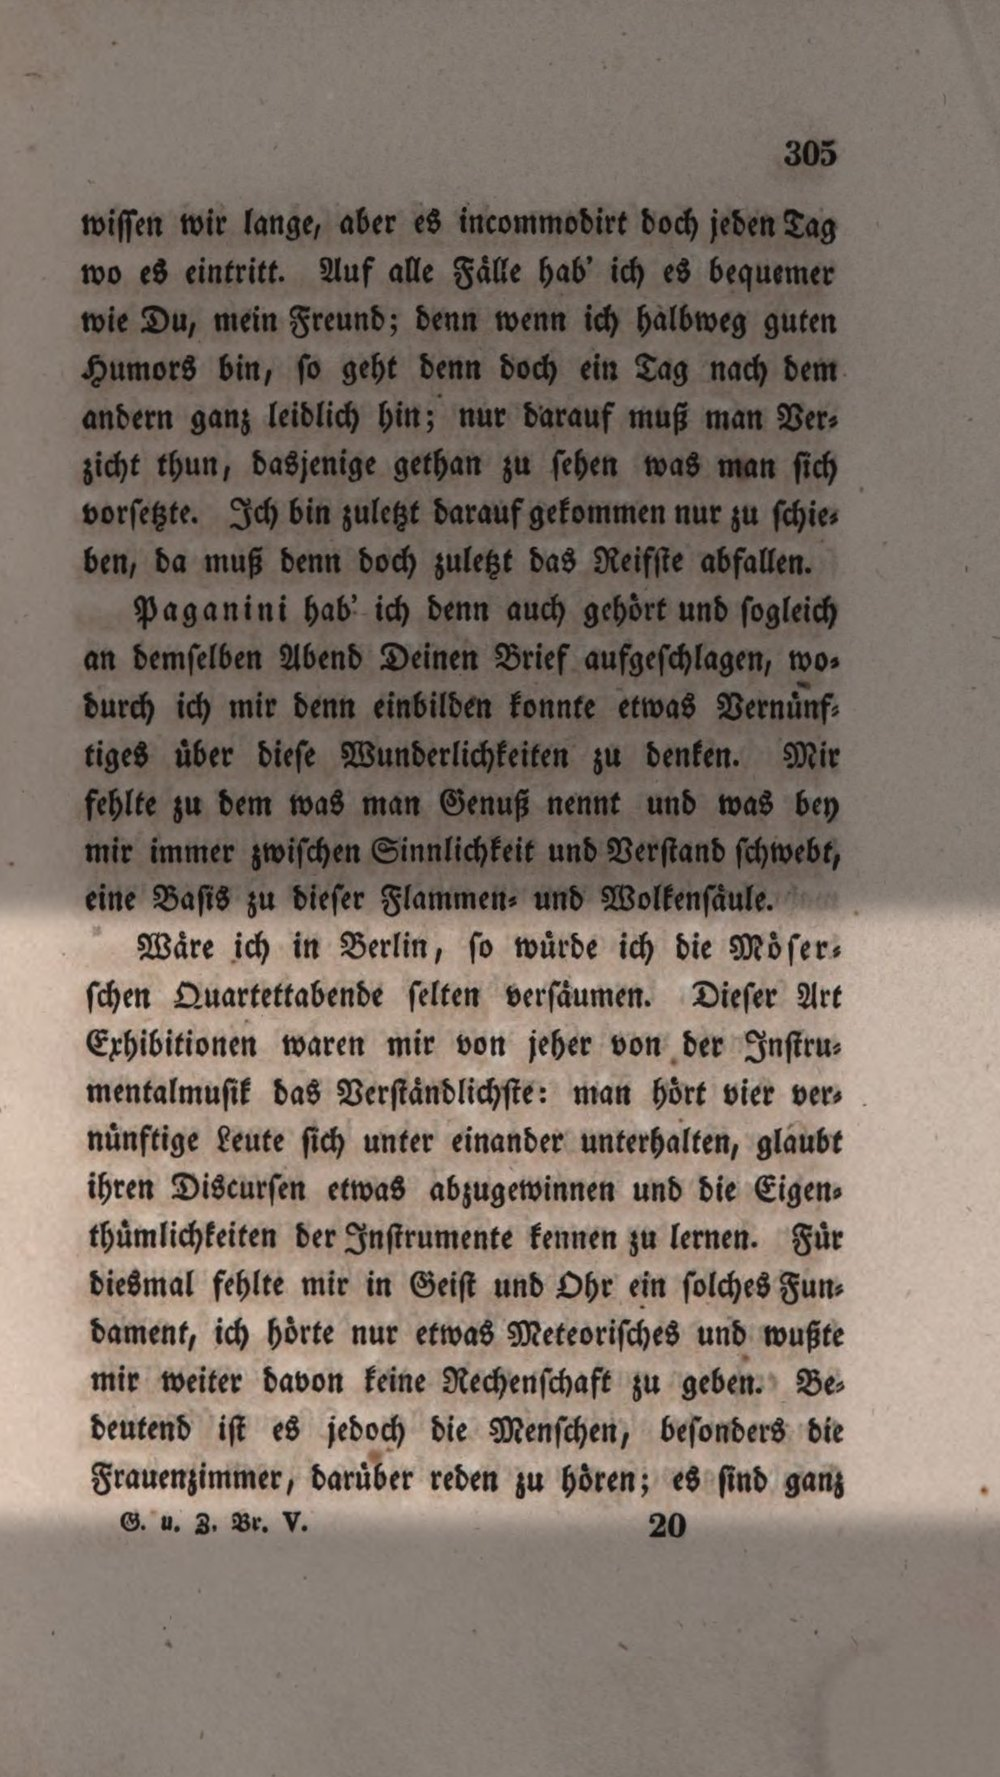
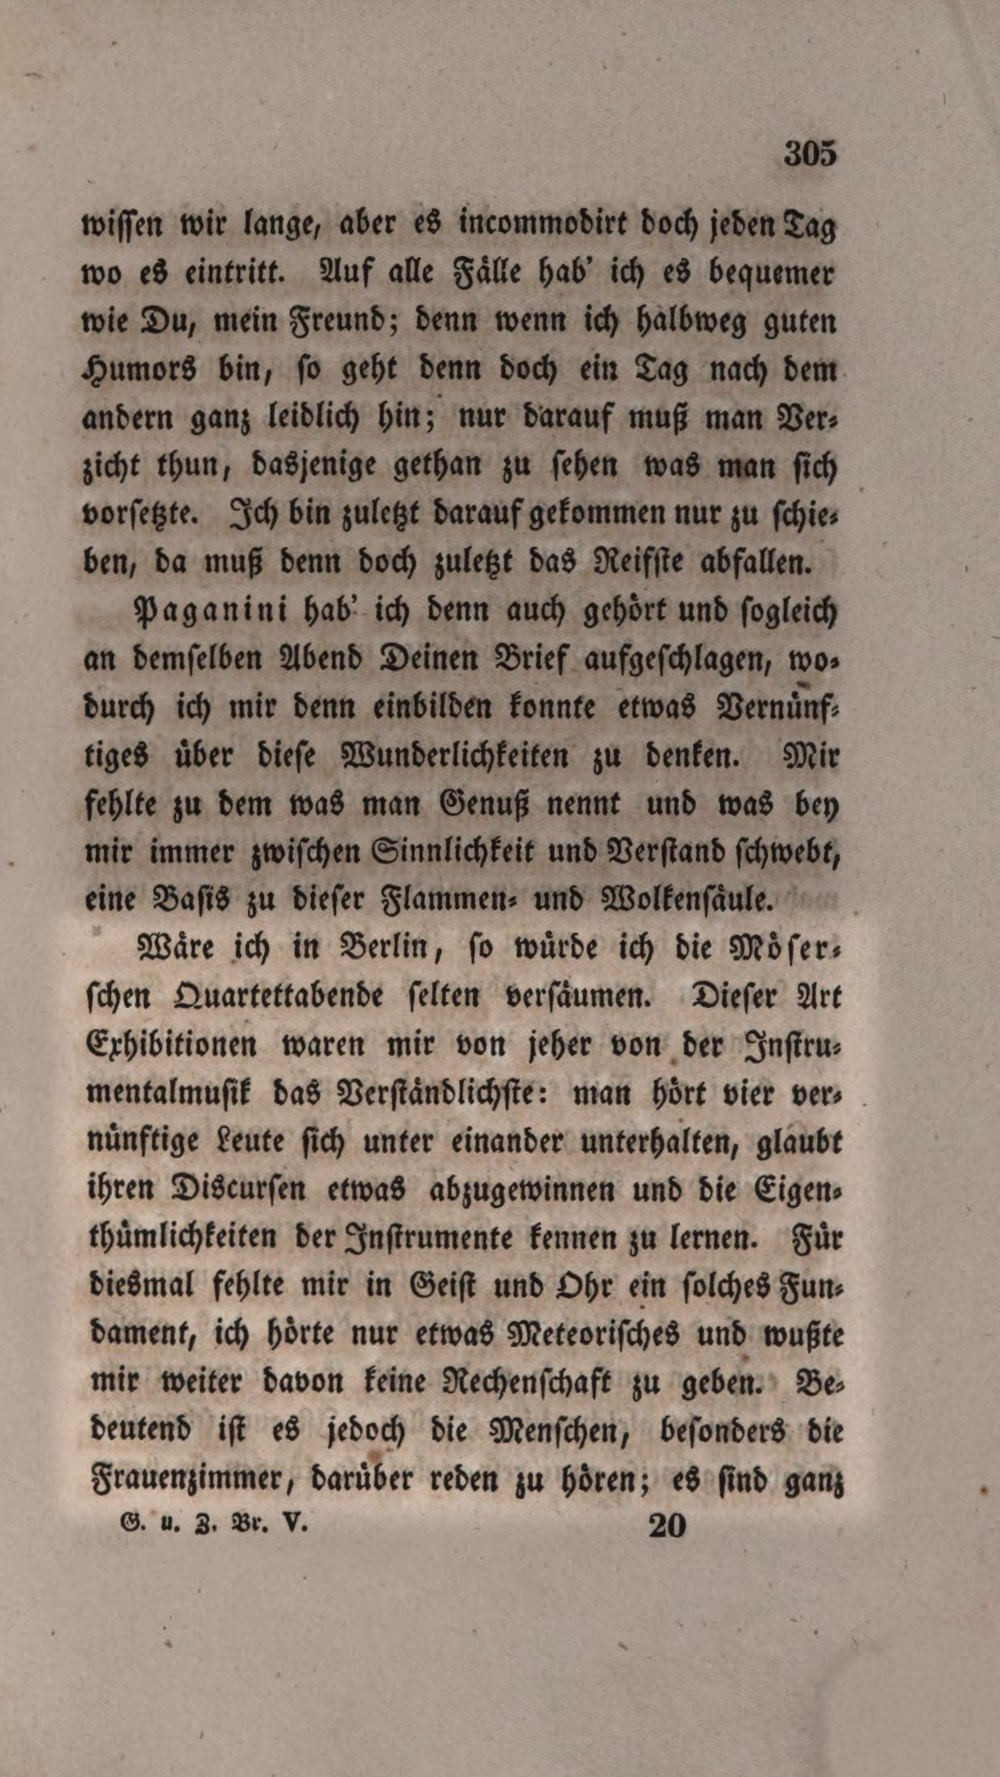
Add files via upload

diff --git a/docs/index.html b/docs/index.html
@@ -23,7 +23,7 @@
 <link rel="preconnect" href="https://fonts.googleapis.com">
 <link rel="preconnect" href="https://fonts.gstatic.com" crossorigin>
 <link href="https://fonts.googleapis.com/css2?family=Bodoni+Moda:ital,wght@0,400;0,500;0,600;1,500&family=Fraunces:ital,wght@0,500;0,600;1,500&family=Inter:wght@400;600;700&display=swap" rel="stylesheet">
-<link rel="stylesheet" href="css/style.css?v=62">
+<link rel="stylesheet" href="css/style.css?v=63">
 <script type="application/ld+json">{"@context": "https://schema.org", "@type": "EventSeries", "name": "Classical Sessions 2026", "startDate": "2026-08-13", "endDate": "2026-08-16", "location": {"@type": "Place", "name": "Castlegregory & Brandon/Cloghane", "address": {"@type": "PostalAddress", "addressRegion": "Co. Kerry", "addressCountry": "IE"}}, "image": ["https://castlegregory.org/img/og-image.png"], "description": "A festival of chamber music on the Dingle Peninsula: three free evening concerts by internationally acclaimed musicians.", "organizer": {"@type": "Organization", "name": "Classical Sessions", "url": "https://castlegregory.org"}, "subEvent": [{"@context": "https://schema.org", "@type": "MusicEvent", "name": "Classical Sessions 2026, Session 1", "startDate": "2026-08-13T19:30:00+01:00", "eventAttendanceMode": "https://schema.org/OfflineEventAttendanceMode", "eventStatus": "https://schema.org/EventScheduled", "location": {"@type": "Place", "name": "Halla Le Chéile", "address": {"@type": "PostalAddress", "streetAddress": "Ballyquin, Brandon", "addressRegion": "Co. Kerry", "addressCountry": "IE"}}, "image": ["https://castlegregory.org/img/og-image.png"], "description": "The festival opens in Brandon with Vivaldi's wild La Folia variations, the first movements of the Ravel and Moeran piano trios side by side, Moeran's rarely heard Second String Quartet, Hannah Ishizaki's hovering, juddering Float/shake, and Tchaikovsky's glorious Souvenir de Florence to finish.", "isAccessibleForFree": true, "offers": {"@type": "Offer", "price": "0", "priceCurrency": "EUR", "availability": "https://schema.org/InStock", "url": "https://castlegregory.org/session-1.html"}, "performer": [{"@type": "Person", "name": "Nathan Meltzer"}, {"@type": "Person", "name": "EunChe Kim"}, {"@type": "Person", "name": "Oszkár Varga"}, {"@type": "Person", "name": "Martin Moriarty"}, {"@type": "Person", "name": "Patrick Moriarty"}, {"@type": "Person", "name": "Christopher Ellis"}, {"@type": "Person", "name": "Stephanie Tang"}], "organizer": {"@type": "Organization", "name": "Classical Sessions", "url": "https://castlegregory.org"}}, {"@context": "https://schema.org", "@type": "MusicEvent", "name": "Classical Sessions 2026, Session 2", "startDate": "2026-08-14T19:30:00+01:00", "eventAttendanceMode": "https://schema.org/OfflineEventAttendanceMode", "eventStatus": "https://schema.org/EventScheduled", "location": {"@type": "Place", "name": "Aisling Cottage", "address": {"@type": "PostalAddress", "streetAddress": "Strand Street, Castlegregory", "addressRegion": "Co. Kerry", "addressCountry": "IE"}}, "image": ["https://castlegregory.org/img/og-image.png"], "description": "An intimate evening of strings in the heart of Castlegregory: Mozart's final quintet, Kodály's folk-fired Serenade, Hannah Ishizaki's kinetic Collide, and Arensky's glowing elegy for Tchaikovsky.", "isAccessibleForFree": true, "offers": {"@type": "Offer", "price": "0", "priceCurrency": "EUR", "availability": "https://schema.org/InStock", "url": "https://castlegregory.org/session-2.html"}, "performer": [{"@type": "Person", "name": "Nathan Meltzer"}, {"@type": "Person", "name": "EunChe Kim"}, {"@type": "Person", "name": "Oszkár Varga"}, {"@type": "Person", "name": "Martin Moriarty"}, {"@type": "Person", "name": "Patrick Moriarty"}, {"@type": "Person", "name": "Christopher Ellis"}], "organizer": {"@type": "Organization", "name": "Classical Sessions", "url": "https://castlegregory.org"}}, {"@context": "https://schema.org", "@type": "MusicEvent", "name": "Classical Sessions 2026, Session 3", "startDate": "2026-08-16T19:30:00+01:00", "eventAttendanceMode": "https://schema.org/OfflineEventAttendanceMode", "eventStatus": "https://schema.org/EventScheduled", "location": {"@type": "Place", "name": "Halla Le Chéile", "address": {"@type": "PostalAddress", "streetAddress": "Ballyquin, Brandon", "addressRegion": "Co. Kerry", "addressCountry": "IE"}}, "image": ["https://castlegregory.org/img/og-image.png"], "description": "The finale opens with music from the film Hamnet, then ranges from Sam Perkin's darkly witty Freakshow and Gabriella Smith's exuberant Carrot Revolution to Takemitsu's tender Autumn Leaves, before Schumann's mighty Piano Quintet brings the festival home.", "isAccessibleForFree": true, "offers": {"@type": "Offer", "price": "0", "priceCurrency": "EUR", "availability": "https://schema.org/InStock", "url": "https://castlegregory.org/session-3.html"}, "performer": [{"@type": "Person", "name": "Nathan Meltzer"}, {"@type": "Person", "name": "EunChe Kim"}, {"@type": "Person", "name": "Oszkár Varga"}, {"@type": "Person", "name": "Martin Moriarty"}, {"@type": "Person", "name": "Patrick Moriarty"}, {"@type": "Person", "name": "Christopher Ellis"}, {"@type": "Person", "name": "Stephanie Tang"}], "organizer": {"@type": "Organization", "name": "Classical Sessions", "url": "https://castlegregory.org"}}]}</script>
 </head>
 <body>

diff --git a/docs/chamber-music.html b/docs/chamber-music.html
@@ -23,7 +23,7 @@
 <link rel="preconnect" href="https://fonts.googleapis.com">
 <link rel="preconnect" href="https://fonts.gstatic.com" crossorigin>
 <link href="https://fonts.googleapis.com/css2?family=Bodoni+Moda:ital,wght@0,400;0,500;0,600;1,500&family=Fraunces:ital,wght@0,500;0,600;1,500&family=Inter:wght@400;600;700&display=swap" rel="stylesheet">
-<link rel="stylesheet" href="css/style.css?v=62">
+<link rel="stylesheet" href="css/style.css?v=63">
 </head>
 <body>
 <header>
@@ -50,7 +50,7 @@
   <h1>About Chamber Music</h1>
 <p class="essay">The name is a room. Before it was a genre it was a place: <i>musica da camera</i>, music for the chamber, as opposed to music for the church or the theatre. It was written to be played among friends in ordinary rooms, by people who were often the only audience it would ever have. Everything that makes chamber music what it is follows from that fact.</p>
 <p class="essay">There is no conductor. Four or five musicians must agree, in real time and without an arbiter, on when to breathe, when to press forward, when to yield. Every entrance is a decision someone has to take and the others have to trust. Goethe, writing to his friend the composer Carl Friedrich Zelter in November 1829, found the image that has never been bettered:</p>
-<figure class="pullquote"><blockquote>One hears four rational people conversing among themselves.</blockquote><figcaption>Goethe on the string quartet<br><a class="src" href="goethe-letter.html">letter to Carl Friedrich Zelter, 9 November 1829</a></figcaption></figure>
+<figure class="pullquote"><blockquote>Exhibitions of that kind have always been, of all instrumental music, the most intelligible to me: one hears four rational people conversing among themselves, one fancies one has something to gain from their discourse, and one comes to know the particular character of the instruments.</blockquote><figcaption>Goethe on the string quartet<br><a class="src" href="goethe-letter.html">letter to Carl Friedrich Zelter, 9 November 1829</a></figcaption></figure>
 <p class="essay">The players face one another rather than the room. What an audience overhears is a conversation it was not, strictly speaking, required for, which is exactly why hearing it feels like a privilege rather than a performance.</p>
 <p class="essay">Haydn is usually given the credit for the form, and he earned it: across some sixty-eight quartets he worked out how four string instruments could be equals rather than a melody with accompaniment. What he built became the place composers went when they had something they could not say in public. Mozart wrote his most confessional music into his quintets. Beethoven ended his life inside the late quartets, music so far ahead of its players that it waited decades for performers to catch up. Schubert, Brahms, Shostakovich: the pattern holds. The symphony is what a composer says to the world. The quartet is what a composer says to four people in a room.</p>
 <p class="essay">That intimacy is not a metaphor. In a chamber concert you can hear the rosin, the breath before an entrance, the small sounds of bodies working. You can see a glance pass between two players and then hear what the glance decided. Nothing is amplified and nothing is hidden. The music is being made in front of you, at the scale it was written for, by people close enough that you would notice if one of them faltered.</p>

diff --git a/docs/discover.html b/docs/discover.html
@@ -23,7 +23,7 @@
 <link rel="preconnect" href="https://fonts.googleapis.com">
 <link rel="preconnect" href="https://fonts.gstatic.com" crossorigin>
 <link href="https://fonts.googleapis.com/css2?family=Bodoni+Moda:ital,wght@0,400;0,500;0,600;1,500&family=Fraunces:ital,wght@0,500;0,600;1,500&family=Inter:wght@400;600;700&display=swap" rel="stylesheet">
-<link rel="stylesheet" href="css/style.css?v=62">
+<link rel="stylesheet" href="css/style.css?v=63">
 </head>
 <body>
 <header>
@@ -50,7 +50,7 @@
   <h1>Discover the Music</h1>
 <p class="essay">The name is a room. Before it was a genre it was a place: <i>musica da camera</i>, music for the chamber, as opposed to music for the church or the theatre. It was written to be played among friends in ordinary rooms, by people who were often the only audience it would ever have.</p>
 <p class="essay">There is no conductor. The players must agree, in real time and without an arbiter, on when to breathe, when to press forward, when to yield. Every entrance is a decision someone has to take and the others have to trust. Goethe found the image that has never been bettered:</p>
-<figure class="pullquote"><blockquote>One hears four rational people conversing among themselves.</blockquote><figcaption>Goethe on the string quartet<br><a class="src" href="goethe-letter.html">letter to Carl Friedrich Zelter, 9 November 1829</a></figcaption></figure>
+<figure class="pullquote"><blockquote>Exhibitions of that kind have always been, of all instrumental music, the most intelligible to me: one hears four rational people conversing among themselves, one fancies one has something to gain from their discourse, and one comes to know the particular character of the instruments.</blockquote><figcaption>Goethe on the string quartet<br><a class="src" href="goethe-letter.html">letter to Carl Friedrich Zelter, 9 November 1829</a></figcaption></figure>
 <p class="essay">That is why a village hall on the Dingle Peninsula is not a compromise for this repertoire but its natural home. Nothing is amplified and nothing is hidden. You can hear the rosin, the breath before an entrance, the small sounds of bodies working, and you sit close enough to see a glance pass between two players and then hear what the glance decided.</p>
 
   <p style="margin:40px 0 4px"><a class="deeper" href="chamber-music.html">Go deeper on chamber music <span>→</span></a></p>

diff --git a/docs/session-1.html b/docs/session-1.html
@@ -23,7 +23,7 @@
 <link rel="preconnect" href="https://fonts.googleapis.com">
 <link rel="preconnect" href="https://fonts.gstatic.com" crossorigin>
 <link href="https://fonts.googleapis.com/css2?family=Bodoni+Moda:ital,wght@0,400;0,500;0,600;1,500&family=Fraunces:ital,wght@0,500;0,600;1,500&family=Inter:wght@400;600;700&display=swap" rel="stylesheet">
-<link rel="stylesheet" href="css/style.css?v=62">
+<link rel="stylesheet" href="css/style.css?v=63">
 <script type="application/ld+json">{"@context": "https://schema.org", "@type": "MusicEvent", "name": "Classical Sessions 2026, Session 1", "startDate": "2026-08-13T19:30:00+01:00", "eventAttendanceMode": "https://schema.org/OfflineEventAttendanceMode", "eventStatus": "https://schema.org/EventScheduled", "location": {"@type": "Place", "name": "Halla Le Chéile", "address": {"@type": "PostalAddress", "streetAddress": "Ballyquin, Brandon", "addressRegion": "Co. Kerry", "addressCountry": "IE"}}, "image": ["https://castlegregory.org/img/og-image.png"], "description": "The festival opens in Brandon with Vivaldi's wild La Folia variations, the first movements of the Ravel and Moeran piano trios side by side, Moeran's rarely heard Second String Quartet, Hannah Ishizaki's hovering, juddering Float/shake, and Tchaikovsky's glorious Souvenir de Florence to finish.", "isAccessibleForFree": true, "offers": {"@type": "Offer", "price": "0", "priceCurrency": "EUR", "availability": "https://schema.org/InStock", "url": "https://castlegregory.org/session-1.html"}, "performer": [{"@type": "Person", "name": "Nathan Meltzer"}, {"@type": "Person", "name": "EunChe Kim"}, {"@type": "Person", "name": "Oszkár Varga"}, {"@type": "Person", "name": "Martin Moriarty"}, {"@type": "Person", "name": "Patrick Moriarty"}, {"@type": "Person", "name": "Christopher Ellis"}, {"@type": "Person", "name": "Stephanie Tang"}], "organizer": {"@type": "Organization", "name": "Classical Sessions", "url": "https://castlegregory.org"}}</script>
 </head>
 <body>

diff --git a/docs/session-3.html b/docs/session-3.html
@@ -23,7 +23,7 @@
 <link rel="preconnect" href="https://fonts.googleapis.com">
 <link rel="preconnect" href="https://fonts.gstatic.com" crossorigin>
 <link href="https://fonts.googleapis.com/css2?family=Bodoni+Moda:ital,wght@0,400;0,500;0,600;1,500&family=Fraunces:ital,wght@0,500;0,600;1,500&family=Inter:wght@400;600;700&display=swap" rel="stylesheet">
-<link rel="stylesheet" href="css/style.css?v=62">
+<link rel="stylesheet" href="css/style.css?v=63">
 <script type="application/ld+json">{"@context": "https://schema.org", "@type": "MusicEvent", "name": "Classical Sessions 2026, Session 3", "startDate": "2026-08-16T19:30:00+01:00", "eventAttendanceMode": "https://schema.org/OfflineEventAttendanceMode", "eventStatus": "https://schema.org/EventScheduled", "location": {"@type": "Place", "name": "Halla Le Chéile", "address": {"@type": "PostalAddress", "streetAddress": "Ballyquin, Brandon", "addressRegion": "Co. Kerry", "addressCountry": "IE"}}, "image": ["https://castlegregory.org/img/og-image.png"], "description": "The finale opens with music from the film Hamnet, then ranges from Sam Perkin's darkly witty Freakshow and Gabriella Smith's exuberant Carrot Revolution to Takemitsu's tender Autumn Leaves, before Schumann's mighty Piano Quintet brings the festival home.", "isAccessibleForFree": true, "offers": {"@type": "Offer", "price": "0", "priceCurrency": "EUR", "availability": "https://schema.org/InStock", "url": "https://castlegregory.org/session-3.html"}, "performer": [{"@type": "Person", "name": "Nathan Meltzer"}, {"@type": "Person", "name": "EunChe Kim"}, {"@type": "Person", "name": "Oszkár Varga"}, {"@type": "Person", "name": "Martin Moriarty"}, {"@type": "Person", "name": "Patrick Moriarty"}, {"@type": "Person", "name": "Christopher Ellis"}, {"@type": "Person", "name": "Stephanie Tang"}], "organizer": {"@type": "Organization", "name": "Classical Sessions", "url": "https://castlegregory.org"}}</script>
 </head>
 <body>

diff --git a/docs/session-2.html b/docs/session-2.html
@@ -23,7 +23,7 @@
 <link rel="preconnect" href="https://fonts.googleapis.com">
 <link rel="preconnect" href="https://fonts.gstatic.com" crossorigin>
 <link href="https://fonts.googleapis.com/css2?family=Bodoni+Moda:ital,wght@0,400;0,500;0,600;1,500&family=Fraunces:ital,wght@0,500;0,600;1,500&family=Inter:wght@400;600;700&display=swap" rel="stylesheet">
-<link rel="stylesheet" href="css/style.css?v=62">
+<link rel="stylesheet" href="css/style.css?v=63">
 <script type="application/ld+json">{"@context": "https://schema.org", "@type": "MusicEvent", "name": "Classical Sessions 2026, Session 2", "startDate": "2026-08-14T19:30:00+01:00", "eventAttendanceMode": "https://schema.org/OfflineEventAttendanceMode", "eventStatus": "https://schema.org/EventScheduled", "location": {"@type": "Place", "name": "Aisling Cottage", "address": {"@type": "PostalAddress", "streetAddress": "Strand Street, Castlegregory", "addressRegion": "Co. Kerry", "addressCountry": "IE"}}, "image": ["https://castlegregory.org/img/og-image.png"], "description": "An intimate evening of strings in the heart of Castlegregory: Mozart's final quintet, Kodály's folk-fired Serenade, Hannah Ishizaki's kinetic Collide, and Arensky's glowing elegy for Tchaikovsky.", "isAccessibleForFree": true, "offers": {"@type": "Offer", "price": "0", "priceCurrency": "EUR", "availability": "https://schema.org/InStock", "url": "https://castlegregory.org/session-2.html"}, "performer": [{"@type": "Person", "name": "Nathan Meltzer"}, {"@type": "Person", "name": "EunChe Kim"}, {"@type": "Person", "name": "Oszkár Varga"}, {"@type": "Person", "name": "Martin Moriarty"}, {"@type": "Person", "name": "Patrick Moriarty"}, {"@type": "Person", "name": "Christopher Ellis"}], "organizer": {"@type": "Organization", "name": "Classical Sessions", "url": "https://castlegregory.org"}}</script>
 </head>
 <body>

diff --git a/docs/css/style.css b/docs/css/style.css
@@ -311,15 +311,16 @@ p.sum.nodrop::first-letter{font-size:inherit;float:none;padding:0;color:inherit;
 .yt iframe{position:absolute;inset:0;width:100%;height:100%;border:0}
 .yt.nothumb.on{aspect-ratio:16/9}
 .embed-cap{font-size:.85rem;color:var(--muted);margin:8px 0 4px}
-.pullquote{margin:14px 0 24px;padding:0;border:0;text-align:left}
-.pullquote blockquote{font-family:var(--serif);font-size:clamp(.95rem,1.18vw,1.08rem);font-weight:400;
-  line-height:1.7;color:var(--head);letter-spacing:.006em;max-width:34em;margin:0}
+.pullquote{margin:16px 0 24px;padding:0 2em 0 2.6em;border:0;text-align:left}
+.pullquote blockquote{font-family:var(--serif);font-size:.95rem;font-weight:400;line-height:1.62;
+  color:var(--ink-soft);letter-spacing:0;margin:0}
 .pullquote figcaption{margin-top:12px;font-size:.6rem;letter-spacing:.24em;text-transform:uppercase;
   color:var(--muted);font-weight:600;line-height:2}
 .pullquote figcaption a.src{color:inherit;text-decoration:none;border-bottom:1px solid rgba(121,113,95,.35);
   padding-bottom:2px;transition:color .3s,border-color .3s}
 .pullquote figcaption a.src:hover{color:var(--orange);border-bottom-color:var(--orange)}
-@media(max-width:600px){.pullquote{margin:12px 0 20px}
+@media(max-width:600px){.pullquote{margin:14px 0 20px;padding:0 0 0 1.3em}
+  .pullquote blockquote{font-size:.92rem}
   .pullquote figcaption{font-size:.55rem;letter-spacing:.18em}}
 
 /* sessions: editorial columns */

diff --git a/docs/composers/arensky.html b/docs/composers/arensky.html
@@ -23,7 +23,7 @@
 <link rel="preconnect" href="https://fonts.googleapis.com">
 <link rel="preconnect" href="https://fonts.gstatic.com" crossorigin>
 <link href="https://fonts.googleapis.com/css2?family=Bodoni+Moda:ital,wght@0,400;0,500;0,600;1,500&family=Fraunces:ital,wght@0,500;0,600;1,500&family=Inter:wght@400;600;700&display=swap" rel="stylesheet">
-<link rel="stylesheet" href="../css/style.css?v=62">
+<link rel="stylesheet" href="../css/style.css?v=63">
 </head>
 <body>
 <header>

diff --git a/docs/composers/ishizaki.html b/docs/composers/ishizaki.html
@@ -23,7 +23,7 @@
 <link rel="preconnect" href="https://fonts.googleapis.com">
 <link rel="preconnect" href="https://fonts.gstatic.com" crossorigin>
 <link href="https://fonts.googleapis.com/css2?family=Bodoni+Moda:ital,wght@0,400;0,500;0,600;1,500&family=Fraunces:ital,wght@0,500;0,600;1,500&family=Inter:wght@400;600;700&display=swap" rel="stylesheet">
-<link rel="stylesheet" href="../css/style.css?v=62">
+<link rel="stylesheet" href="../css/style.css?v=63">
 </head>
 <body>
 <header>

diff --git a/docs/composers/kodaly.html b/docs/composers/kodaly.html
@@ -23,7 +23,7 @@
 <link rel="preconnect" href="https://fonts.googleapis.com">
 <link rel="preconnect" href="https://fonts.gstatic.com" crossorigin>
 <link href="https://fonts.googleapis.com/css2?family=Bodoni+Moda:ital,wght@0,400;0,500;0,600;1,500&family=Fraunces:ital,wght@0,500;0,600;1,500&family=Inter:wght@400;600;700&display=swap" rel="stylesheet">
-<link rel="stylesheet" href="../css/style.css?v=62">
+<link rel="stylesheet" href="../css/style.css?v=63">
 </head>
 <body>
 <header>

diff --git a/docs/composers/kosma-takemitsu.html b/docs/composers/kosma-takemitsu.html
@@ -23,7 +23,7 @@
 <link rel="preconnect" href="https://fonts.googleapis.com">
 <link rel="preconnect" href="https://fonts.gstatic.com" crossorigin>
 <link href="https://fonts.googleapis.com/css2?family=Bodoni+Moda:ital,wght@0,400;0,500;0,600;1,500&family=Fraunces:ital,wght@0,500;0,600;1,500&family=Inter:wght@400;600;700&display=swap" rel="stylesheet">
-<link rel="stylesheet" href="../css/style.css?v=62">
+<link rel="stylesheet" href="../css/style.css?v=63">
 </head>
 <body>
 <header>

diff --git a/docs/composers/moeran.html b/docs/composers/moeran.html
@@ -23,7 +23,7 @@
 <link rel="preconnect" href="https://fonts.googleapis.com">
 <link rel="preconnect" href="https://fonts.gstatic.com" crossorigin>
 <link href="https://fonts.googleapis.com/css2?family=Bodoni+Moda:ital,wght@0,400;0,500;0,600;1,500&family=Fraunces:ital,wght@0,500;0,600;1,500&family=Inter:wght@400;600;700&display=swap" rel="stylesheet">
-<link rel="stylesheet" href="../css/style.css?v=62">
+<link rel="stylesheet" href="../css/style.css?v=63">
 </head>
 <body>
 <header>
